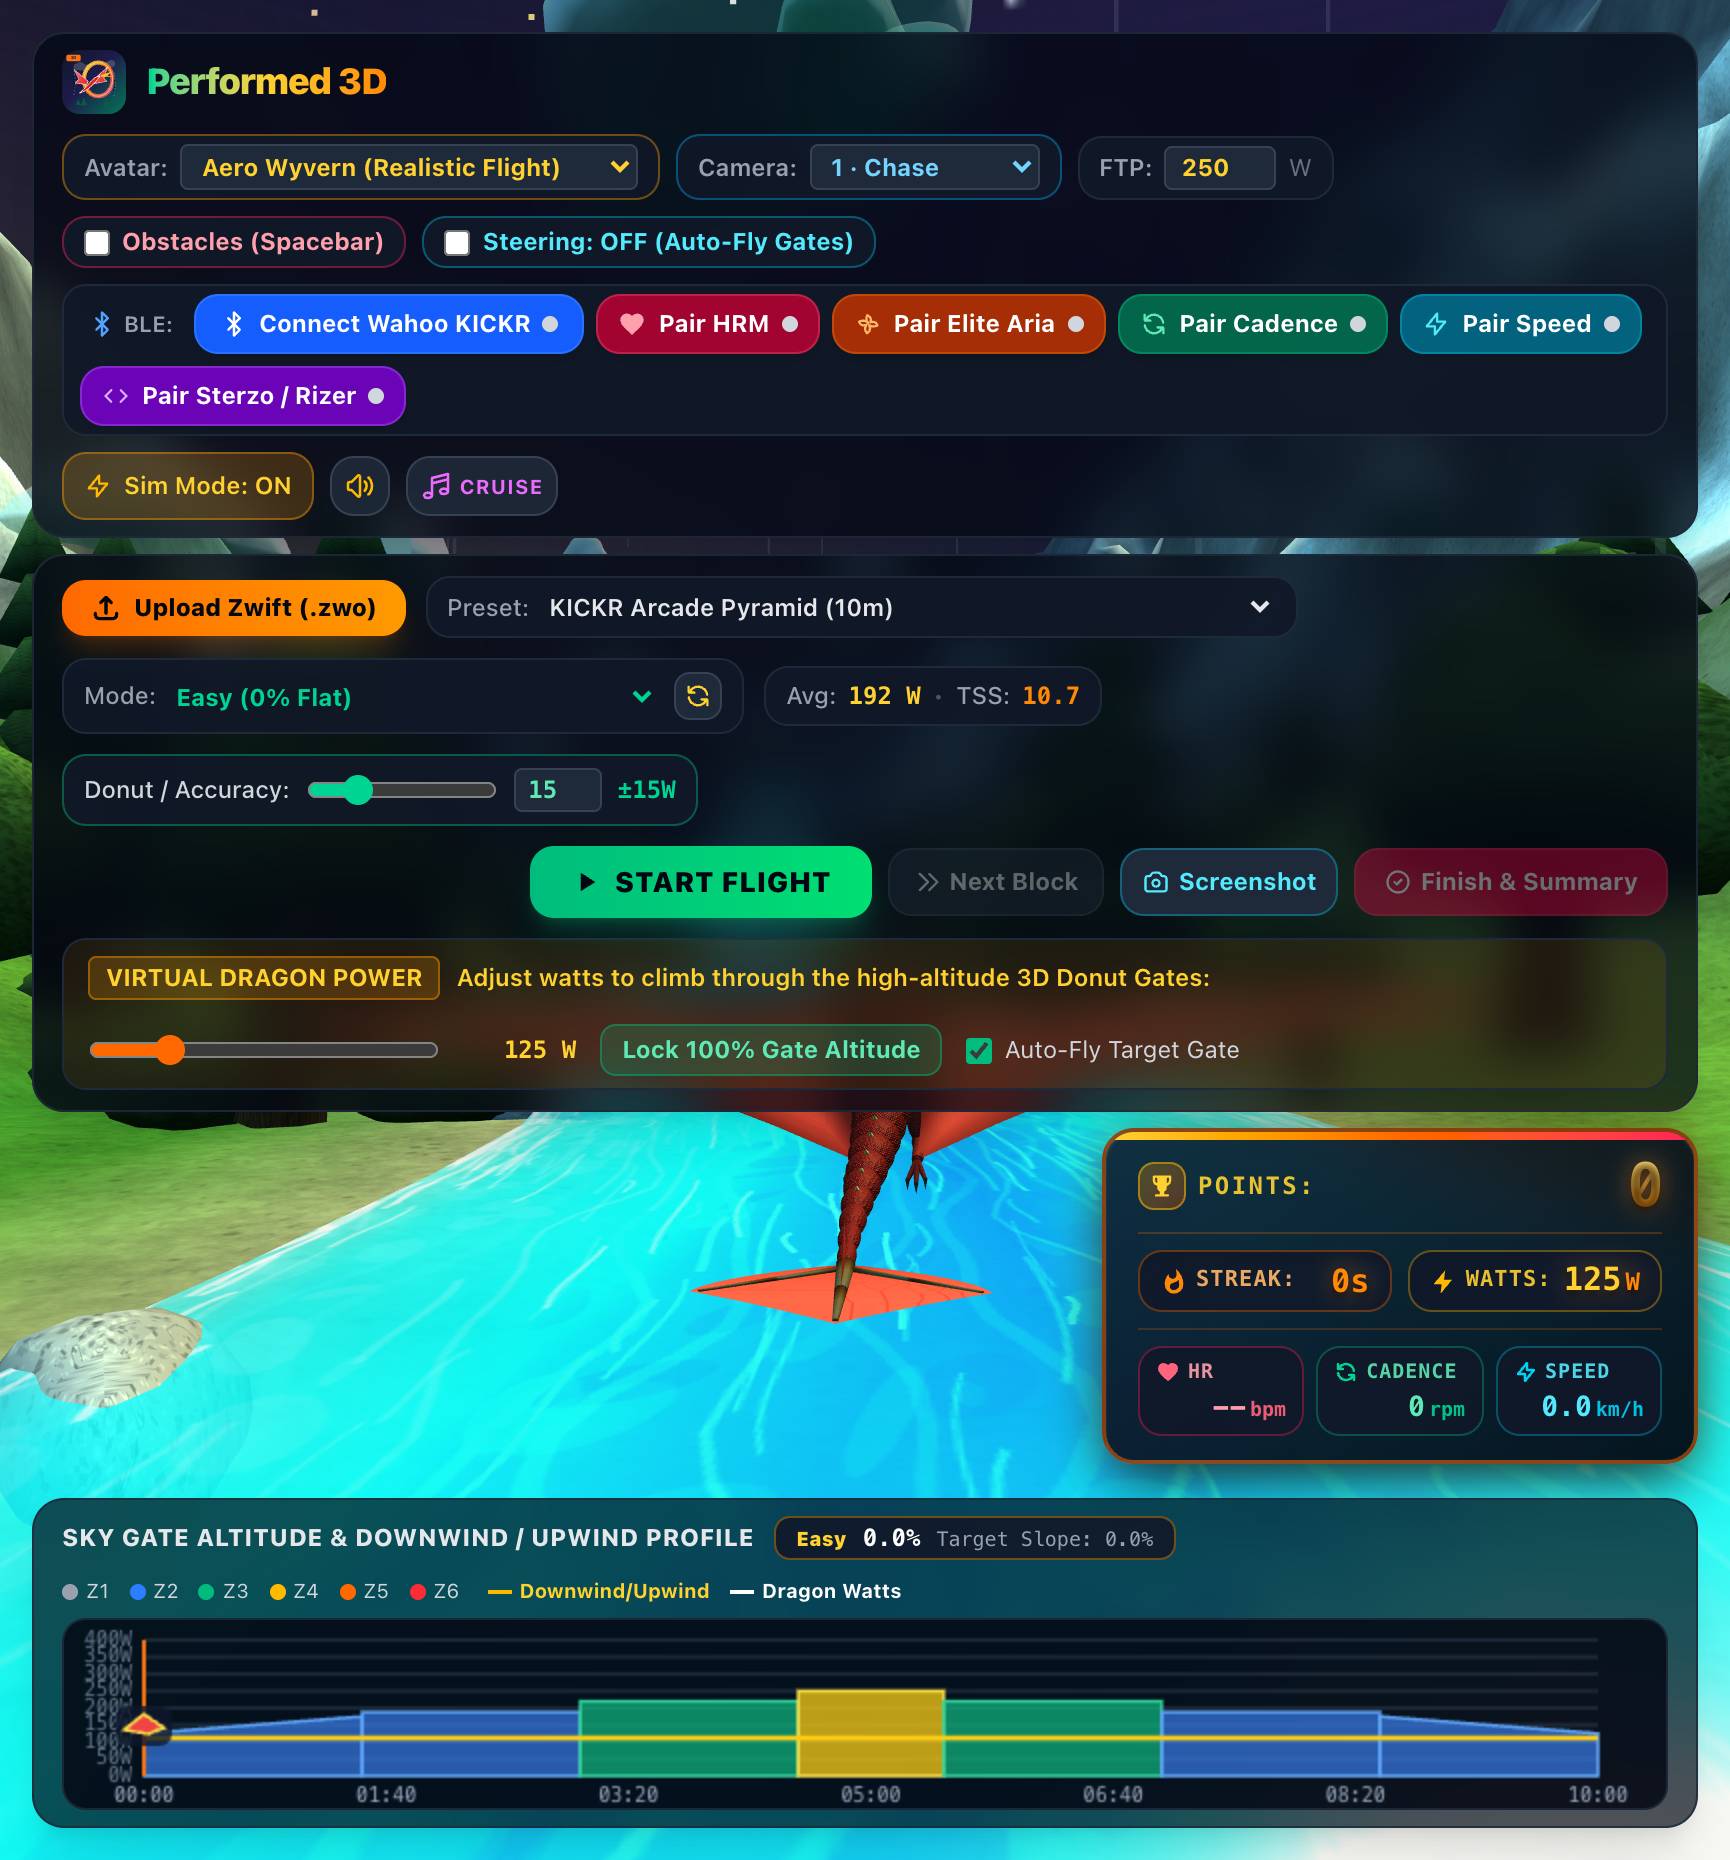
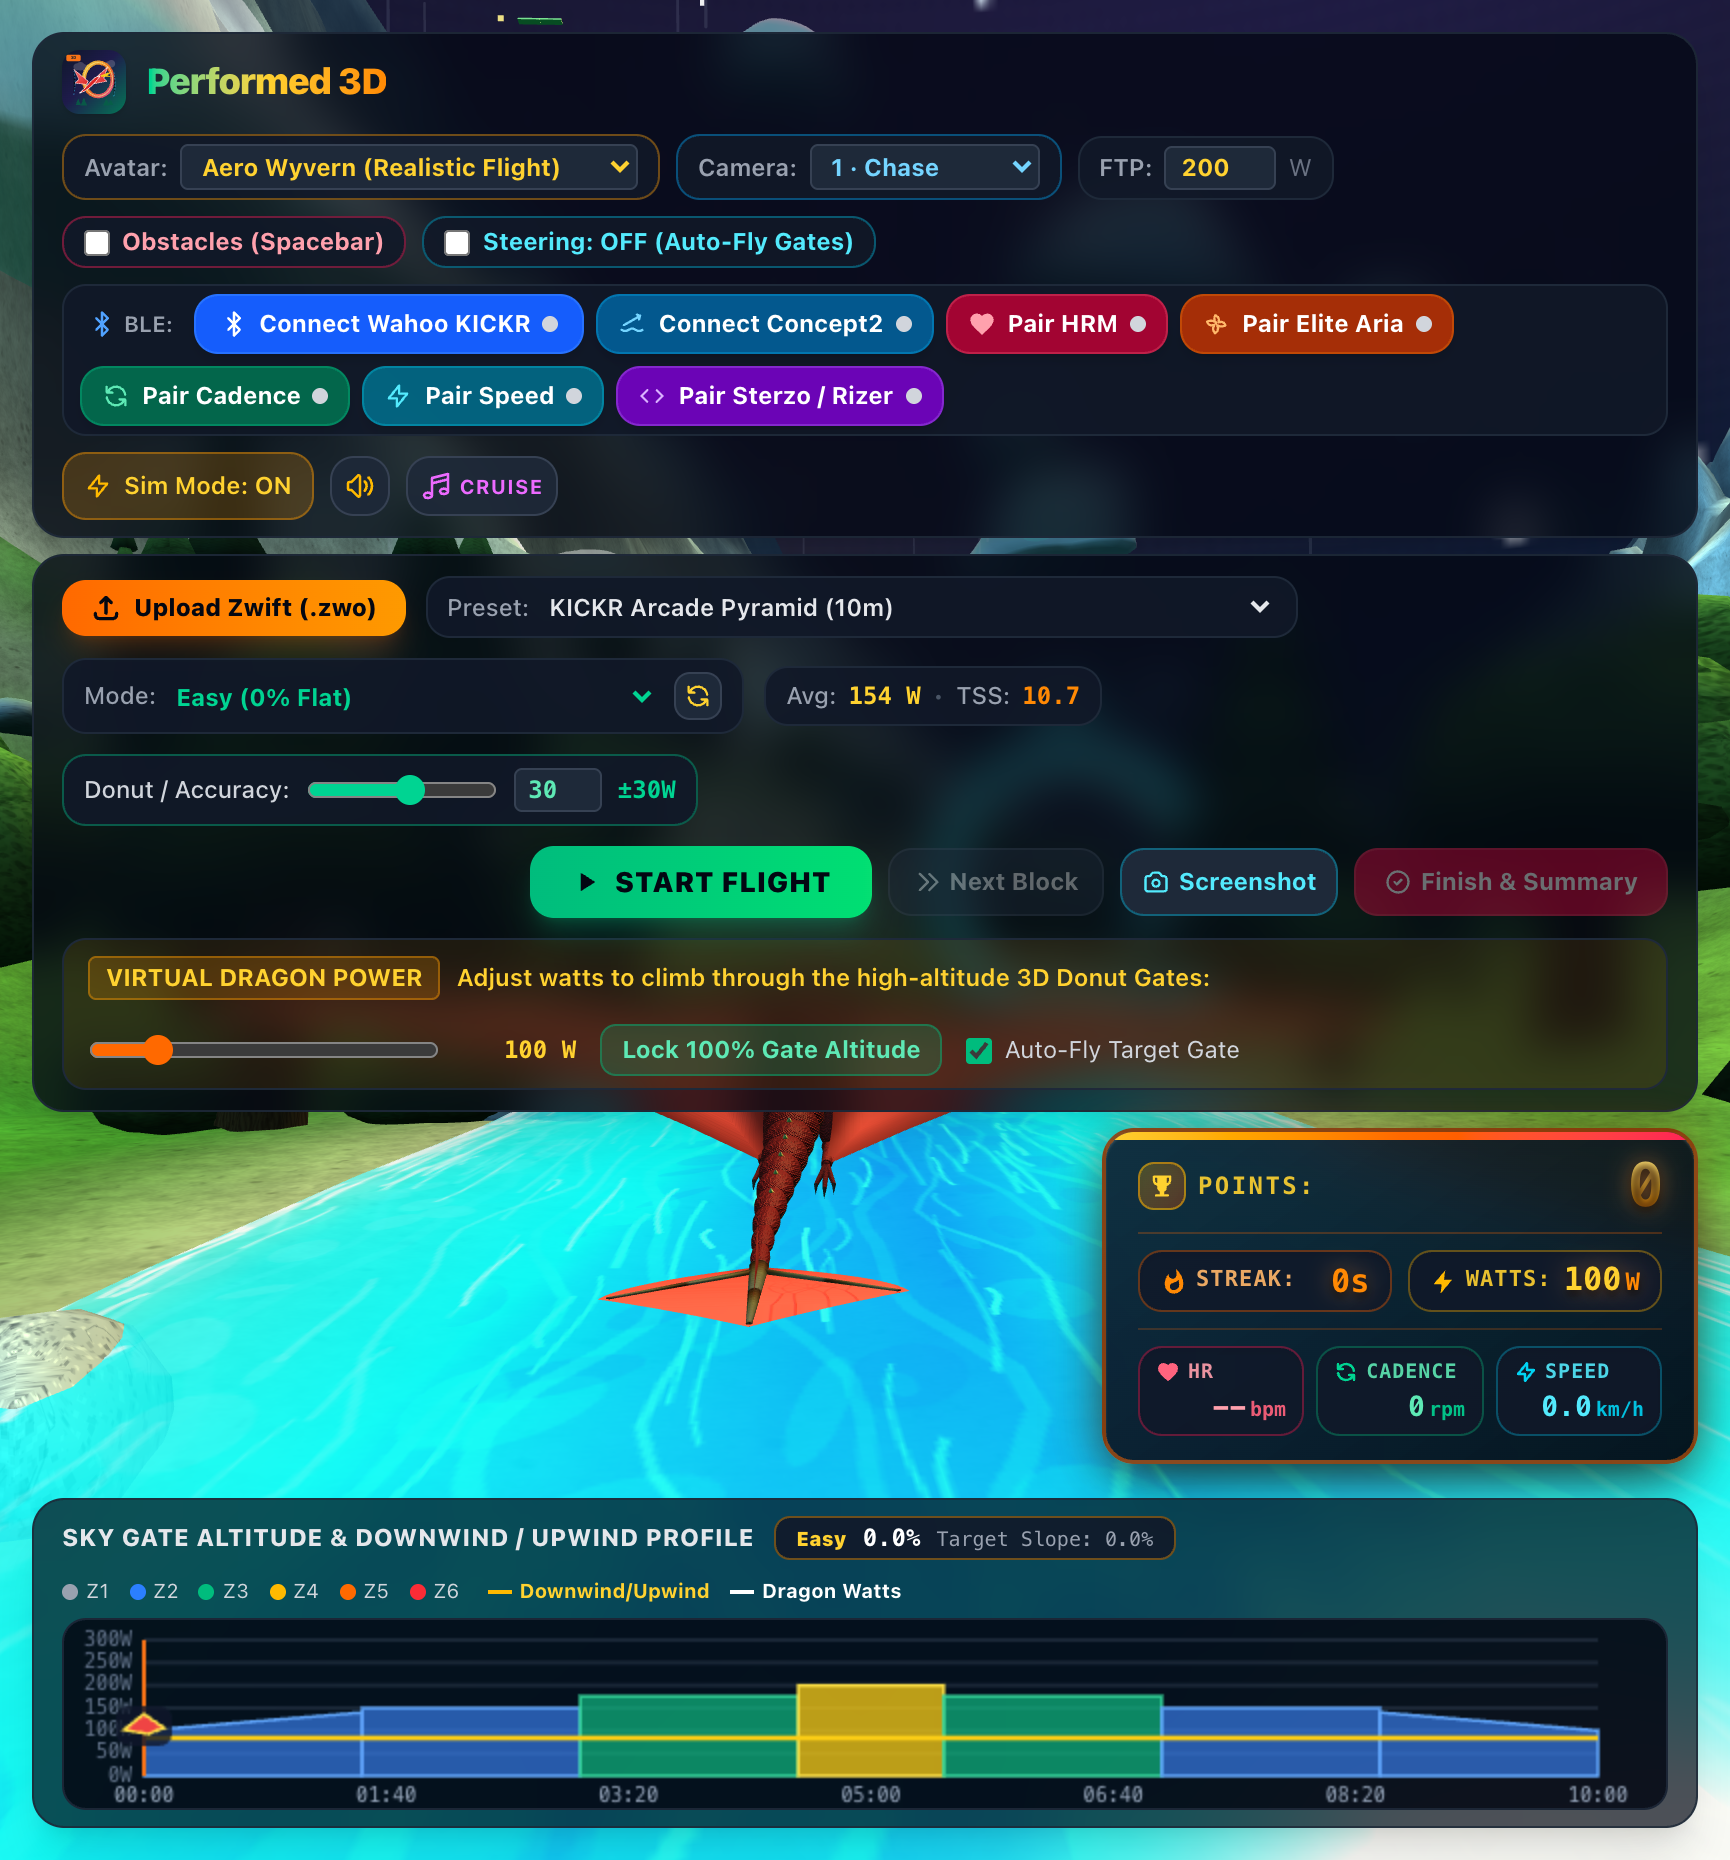
Connect Concept2 support (rudergerät)

diff --git a/performed3d.html b/performed3d.html
@@ -177,6 +177,17 @@
                                 <span id="bleStatusDot" class="w-2 h-2 rounded-full bg-gray-300"></span>
                             </button>
 
+                            <!-- Concept2 PM5 Rowing Ergometer Button (power source, no resistance control) -->
+                            <button id="connectRowerBleBtn" type="button"
+                                    class="px-2.5 py-1.5 rounded-xl font-bold text-xs flex items-center gap-1.5 transition cursor-pointer shadow-md bg-sky-700/80 hover:bg-sky-600 text-white border border-sky-400/30"
+                                    title="Connect Concept2 RowErg / SkiErg / BikeErg (PM5) as power source; stroke rate is shown as cadence">
+                                <svg class="w-3.5 h-3.5 text-sky-300" fill="none" stroke="currentColor" viewBox="0 0 24 24">
+                                    <path stroke-linecap="round" stroke-linejoin="round" stroke-width="2" d="M3 17c2 1.5 4 1.5 6 0s4-1.5 6 0 4 1.5 6 0M5 13l14-8M16 4l3 1-1 3"/>
+                                </svg>
+                                <span id="bleRowerStatusText">Connect Concept2</span>
+                                <span id="bleRowerStatusDot" class="w-2 h-2 rounded-full bg-gray-300"></span>
+                            </button>
+
                             <!-- BLE Heart Rate Monitor Pairing Button (e.g. Garmin HRM 200) -->
                             <button id="connectHrmBleBtn" type="button"
                                     class="px-2.5 py-1.5 rounded-xl font-bold text-xs flex items-center gap-1.5 transition cursor-pointer shadow-md bg-rose-700/80 hover:bg-rose-600 text-white border border-rose-400/30"
@@ -1987,7 +1998,13 @@
             ELITE_STEERING_CHALLENGE_CHAR: '347b0032-7635-408b-8918-8ff3949ce592',
             ELITE_ARIA_SERVICE: '347b0001-7635-408b-8918-8ff3949ce592',
             ELITE_ARIA_SETUP_CHAR: '347b0012-7635-408b-8918-8ff3949ce592',
-            ELITE_ARIA_CONTROL_CHAR: '347b0040-7635-408b-8918-8ff3949ce592'
+            ELITE_ARIA_CONTROL_CHAR: '347b0040-7635-408b-8918-8ff3949ce592',
+            // Concept2 PM5 (PM Bluetooth Smart Communications Interface Definition)
+            C2_DISCOVERY_SERVICE: 'ce060000-43e5-11e4-916c-0800200c9a66',
+            C2_ROWING_SERVICE: 'ce060030-43e5-11e4-916c-0800200c9a66',
+            C2_ADDITIONAL_STATUS_1_CHAR: 'ce060032-43e5-11e4-916c-0800200c9a66',
+            C2_SAMPLE_RATE_CHAR: 'ce060034-43e5-11e4-916c-0800200c9a66',
+            C2_ADDITIONAL_STROKE_DATA_CHAR: 'ce060036-43e5-11e4-916c-0800200c9a66'
         };
 
         const DEFAULT_WHEEL_CIRCUMFERENCE_METERS = 2.105; // 700x25c road wheel circumference in meters
@@ -2349,6 +2366,118 @@
                 });
                 this.writeQueue = write;
                 await write;
+            }
+        }
+
+        const C2_STROKE_POWER_STALE_MS = 4000;
+
+        // Concept2 rowing ergometer (RowErg, SkiErg, BikeErg) via PM5 monitor. Read-only: the PM5
+        // does not accept resistance control, so power is driven entirely by the athlete.
+        class BleConcept2Rower {
+            constructor(onTelemetryCallback, onStatusCallback) {
+                this.onTelemetry = onTelemetryCallback;
+                this.onStatus = onStatusCallback;
+                this.device = null;
+                this.server = null;
+                this.status1Char = null;
+                this.strokeChar = null;
+                this.latestWatts = null;
+                this.latestStrokeRate = null;
+                this.latestSpeedKmh = null;
+                this.latestHeartRate = null;
+                this.lastStrokePowerAt = -Infinity;
+                this.connected = false;
+            }
+
+            async connect() {
+                if (!navigator.bluetooth) {
+                    throw new Error('Web Bluetooth is not supported in this browser. Use Chrome/Edge or enable Sim Mode.');
+                }
+
+                this.onStatus('connecting', 'Pairing Concept2...');
+                this.device = await navigator.bluetooth.requestDevice({
+                    filters: [
+                        { services: [BLE_UUIDS.C2_DISCOVERY_SERVICE] },
+                        { namePrefix: 'PM5' }
+                    ],
+                    optionalServices: [BLE_UUIDS.C2_ROWING_SERVICE]
+                });
+
+                this.device.addEventListener('gattserverdisconnected', () => {
+                    this.connected = false;
+                    this.status1Char = null;
+                    this.strokeChar = null;
+                    this.latestWatts = null;
+                    this.latestStrokeRate = null;
+                    this.latestSpeedKmh = null;
+                    this.latestHeartRate = null;
+                    this.onStatus('disconnected', 'Connect Concept2');
+                });
+
+                this.server = await this.device.gatt.connect();
+                try {
+                    const rowing = await this.server.getPrimaryService(BLE_UUIDS.C2_ROWING_SERVICE);
+
+                    try {
+                        // 0 = 1 s, 1 = 500 ms, 2 = 250 ms, 3 = 100 ms
+                        const rateChar = await rowing.getCharacteristic(BLE_UUIDS.C2_SAMPLE_RATE_CHAR);
+                        await rateChar.writeValue(new Uint8Array([0x02]));
+                    } catch (_) {}
+
+                    this.status1Char = await rowing.getCharacteristic(BLE_UUIDS.C2_ADDITIONAL_STATUS_1_CHAR);
+                    await this.status1Char.startNotifications();
+                    this.status1Char.addEventListener('characteristicvaluechanged', (e) => {
+                        this.parseAdditionalStatus1(e.target.value);
+                    });
+
+                    this.strokeChar = await rowing.getCharacteristic(BLE_UUIDS.C2_ADDITIONAL_STROKE_DATA_CHAR);
+                    await this.strokeChar.startNotifications();
+                    this.strokeChar.addEventListener('characteristicvaluechanged', (e) => {
+                        this.parseAdditionalStrokeData(e.target.value);
+                    });
+                } catch (err) {
+                    this.connected = false;
+                    if (this.device.gatt.connected) this.device.gatt.disconnect();
+                    throw err;
+                }
+
+                this.connected = true;
+                this.onStatus('connected', this.device.name || 'Concept2 PM5');
+            }
+
+            // Characteristic 0x0032: elapsed time (3), speed (2, 0.001 m/s), stroke rate (1, spm),
+            // heart rate (1, bpm, 255 = invalid), current pace (2), ...
+            parseAdditionalStatus1(dataView) {
+                if (!dataView || dataView.byteLength < 7) return;
+                const speedMps = dataView.getUint16(3, true) / 1000.0;
+                const strokeRate = dataView.getUint8(5);
+                const heartRate = dataView.getUint8(6);
+                this.latestSpeedKmh = speedMps * 3.6;
+                this.latestStrokeRate = strokeRate;
+                this.latestHeartRate = (heartRate > 0 && heartRate < 255) ? heartRate : null;
+                // Stroke power only updates once per stroke; when strokes stop, derive power from
+                // the decaying boat speed using Concept2's formula P = 2.80 * v^3.
+                if (performance.now() - this.lastStrokePowerAt > C2_STROKE_POWER_STALE_MS) {
+                    this.latestWatts = Math.max(0, Math.round(2.8 * speedMps * speedMps * speedMps));
+                }
+                this.emitTelemetry();
+            }
+
+            // Characteristic 0x0036: elapsed time (3), stroke power (2, W), stroke calories (2), ...
+            parseAdditionalStrokeData(dataView) {
+                if (!dataView || dataView.byteLength < 5) return;
+                this.latestWatts = Math.max(0, dataView.getUint16(3, true));
+                this.lastStrokePowerAt = performance.now();
+                this.emitTelemetry();
+            }
+
+            emitTelemetry() {
+                this.onTelemetry({
+                    watts: this.latestWatts,
+                    cadence: this.latestStrokeRate,
+                    speedKmh: this.latestSpeedKmh,
+                    heartRate: this.latestHeartRate
+                });
             }
         }
 
@@ -6910,6 +7039,45 @@
             }
         );
 
+        const bleRower = new BleConcept2Rower(
+            (telemetry) => {
+                if (telemetry.watts !== null && telemetry.watts !== undefined) {
+                    state.actualWatts = recordKickrWattReading(telemetry.watts);
+                }
+                if (!bleCadenceSensor.connected && telemetry.cadence !== null && telemetry.cadence !== undefined) {
+                    state.cadence = Math.max(0, Math.round(telemetry.cadence));
+                }
+                if (!bleSpeedSensor.connected && telemetry.speedKmh !== null && telemetry.speedKmh !== undefined) {
+                    state.speedKmh = Math.max(0, telemetry.speedKmh);
+                }
+                const rowerHeartRate = telemetry.heartRate || null;
+                if (!bleHrmSensor.connected && rowerHeartRate !== state.heartRate) {
+                    state.heartRate = rowerHeartRate;
+                    bleEliteAriaFan.setHeartRate(state.heartRate).catch((err) => {
+                        console.error('Could not update Elite Aria fan speed.', err);
+                        bleEliteAriaFan.onStatus('error', 'Elite Aria control error');
+                    });
+                }
+                updateLiveHud();
+            },
+            (status, label) => {
+                const btn = document.getElementById('connectRowerBleBtn');
+                const text = document.getElementById('bleRowerStatusText');
+                const dot = document.getElementById('bleRowerStatusDot');
+                if (text) text.textContent = label;
+                if (!btn || !dot) return;
+                if (status === 'connected') {
+                    btn.className = 'px-2.5 py-1.5 rounded-xl font-bold text-xs flex items-center gap-1.5 transition cursor-pointer shadow-md bg-emerald-600 hover:bg-emerald-500 text-white border border-emerald-400/40';
+                    dot.className = 'w-2 h-2 rounded-full bg-emerald-200 animate-ping';
+                } else if (status === 'connecting') {
+                    dot.className = 'w-2 h-2 rounded-full bg-amber-300 animate-pulse';
+                } else {
+                    btn.className = 'px-2.5 py-1.5 rounded-xl font-bold text-xs flex items-center gap-1.5 transition cursor-pointer shadow-md bg-sky-700/80 hover:bg-sky-600 text-white border border-sky-400/30';
+                    dot.className = 'w-2 h-2 rounded-full bg-gray-300';
+                }
+            }
+        );
+
         function formatDuration(sec) {
             const total = Math.max(0, Math.floor(sec));
             const mins = Math.floor(total / 60);
@@ -7458,10 +7626,10 @@
             stepTerrainGradient();
             const targetWatts = getTargetWattsAtSecond(state.workout, state.elapsedSec, state.ftp);
 
+            if ((bleTrainer.connected || bleRower.connected) && !state.simMode && state.kickrWattSamples.length > 0) {
+                state.actualWatts = getThreeSecondAverageKickrWatts();
+            }
             if (bleTrainer.connected) {
-                if (!state.simMode && state.kickrWattSamples.length > 0) {
-                    state.actualWatts = getThreeSecondAverageKickrWatts();
-                }
                 if (state.resistanceMode === 'erg') {
                     bleTrainer.setErgTargetWatts(targetWatts);
                 } else {
@@ -7792,7 +7960,7 @@
                 bar.classList.add('hidden');
                 text.textContent = 'Sim Mode: OFF';
                 btn.className = 'px-2.5 py-2 rounded-xl font-semibold text-xs flex items-center gap-1.5 bg-gray-800/90 hover:bg-gray-700 text-gray-300 border border-gray-700 transition cursor-pointer';
-                if (!bleTrainer.connected) {
+                if (!bleTrainer.connected && !bleRower.connected) {
                     state.actualWatts = 0;
                     if (!bleCadenceSensor.connected) state.cadence = 0;
                     if (!bleSpeedSensor.connected) state.speedKmh = 0;
@@ -8051,6 +8219,18 @@
                     alert(err.message || 'Could not connect to Wahoo KICKR via Bluetooth.');
                 }
                 bleTrainer.onStatus('disconnected', 'Connect Wahoo KICKR');
+            }
+        });
+
+        document.getElementById('connectRowerBleBtn').addEventListener('click', async () => {
+            try {
+                await bleRower.connect();
+                if (state.simMode) toggleSimMode(false);
+            } catch (err) {
+                if (!isBlePairingCancelledError(err)) {
+                    alert(err.message || 'Could not connect to Concept2 PM5 via Bluetooth.');
+                }
+                bleRower.onStatus('disconnected', 'Connect Concept2');
             }
         });
 

diff --git a/README.md b/README.md
@@ -82,6 +82,7 @@ There are five camera views: Chase, Far Chase, Top-Down, Front, and Front Far. Y
 Use the BLE buttons to pair supported devices:
 
 - Wahoo KICKR (power and trainer control)
+- Concept2 RowErg, SkiErg, or BikeErg via the PM5 monitor (power, stroke rate shown as cadence, speed, and heart rate from a strap paired to the PM5). The PM5 cannot be controlled, so resistance modes and ERG Lock have no effect; you set the effort yourself.
 - Heart rate monitors
 - Cadence and speed sensors
 - Elite Sterzo Smart or Elite Rizer (steering)
